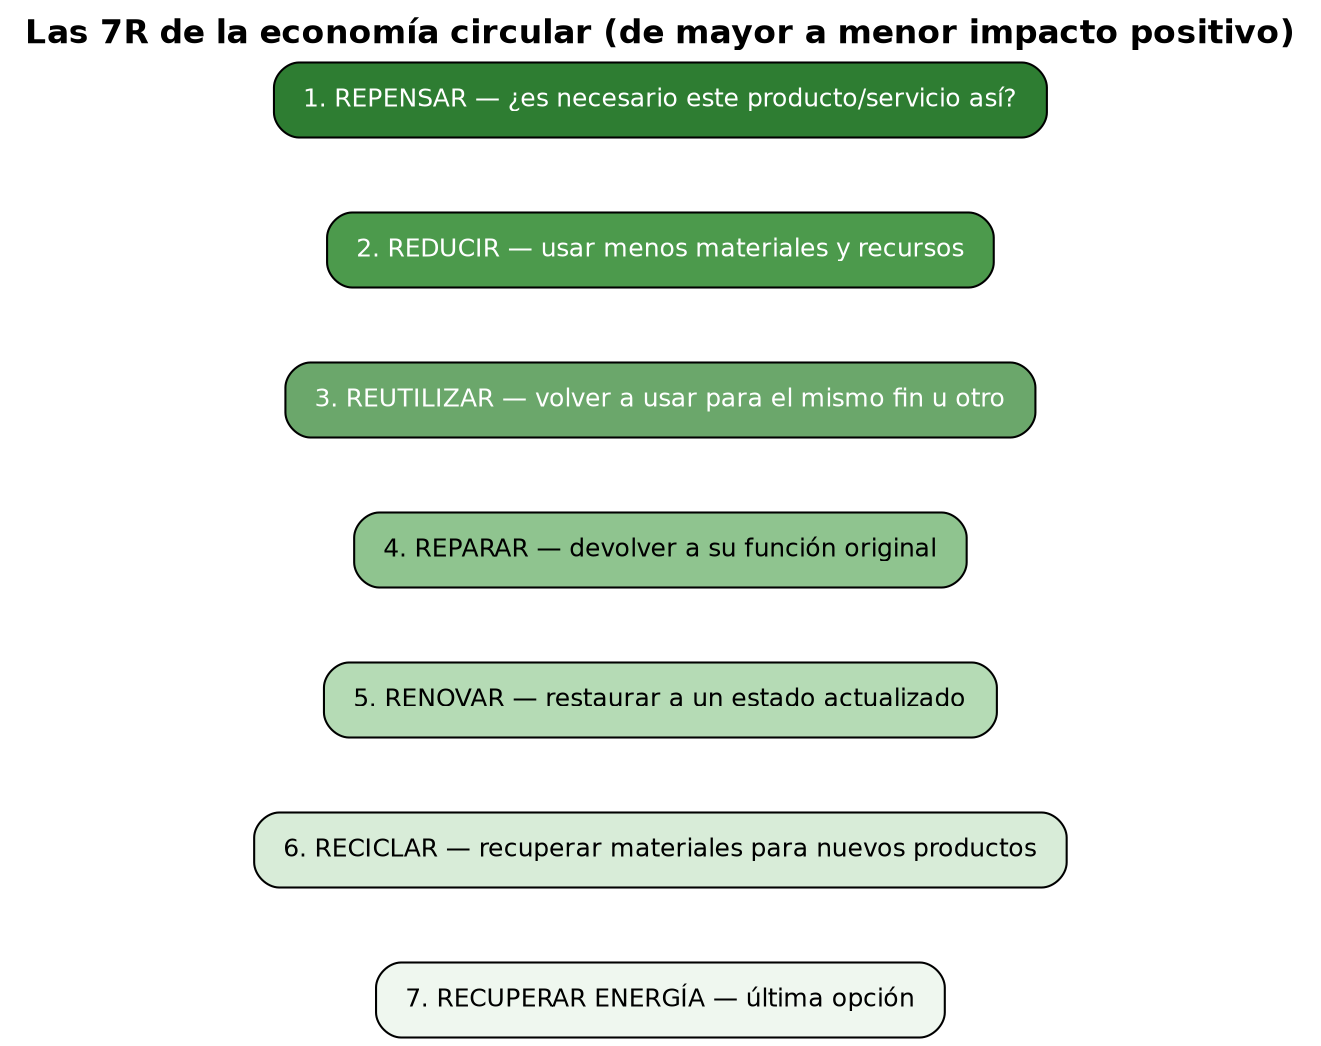
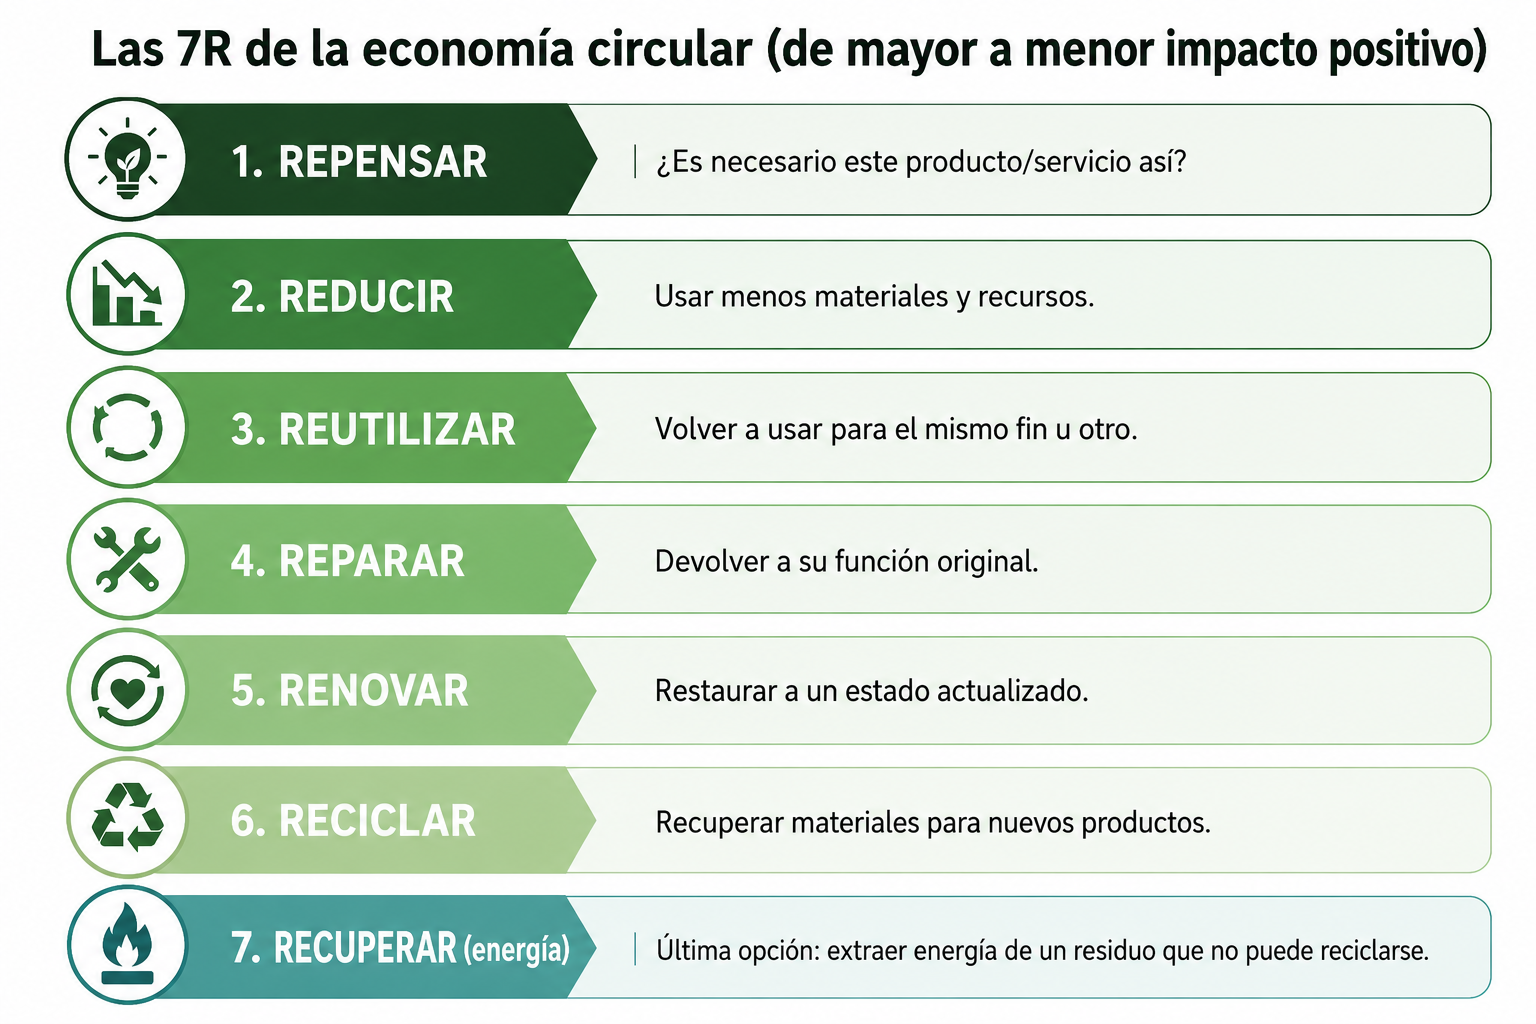
Actualiza imagen de las erres (UD4) y ajusta tamaño de foto en UD3

diff --git a/docs/ud3.md b/docs/ud3.md
@@ -70,7 +70,7 @@ Para un profesional de administración de sistemas, no hace falta cambiar de per
 
 ## 6. Sostenibilidad personal: hábitos y huella de carbono individual
 
-![Una persona trabajando en remoto desde su propio espacio](assets/img/ud3_teletrabajo.jpg)
+![Una persona trabajando en remoto desde su propio espacio](assets/img/ud3_teletrabajo.jpg){ width="360" }
 *Foto: Shixart1985, [CC BY 2.0](https://creativecommons.org/licenses/by/2.0/), vía [Wikimedia Commons](https://commons.wikimedia.org/wiki/File:Attractuve_middle-aged_woman_working_on_laptop_at_home.jpg)*
 
 La **huella de carbono personal** se calcula habitualmente en tres grandes categorías: